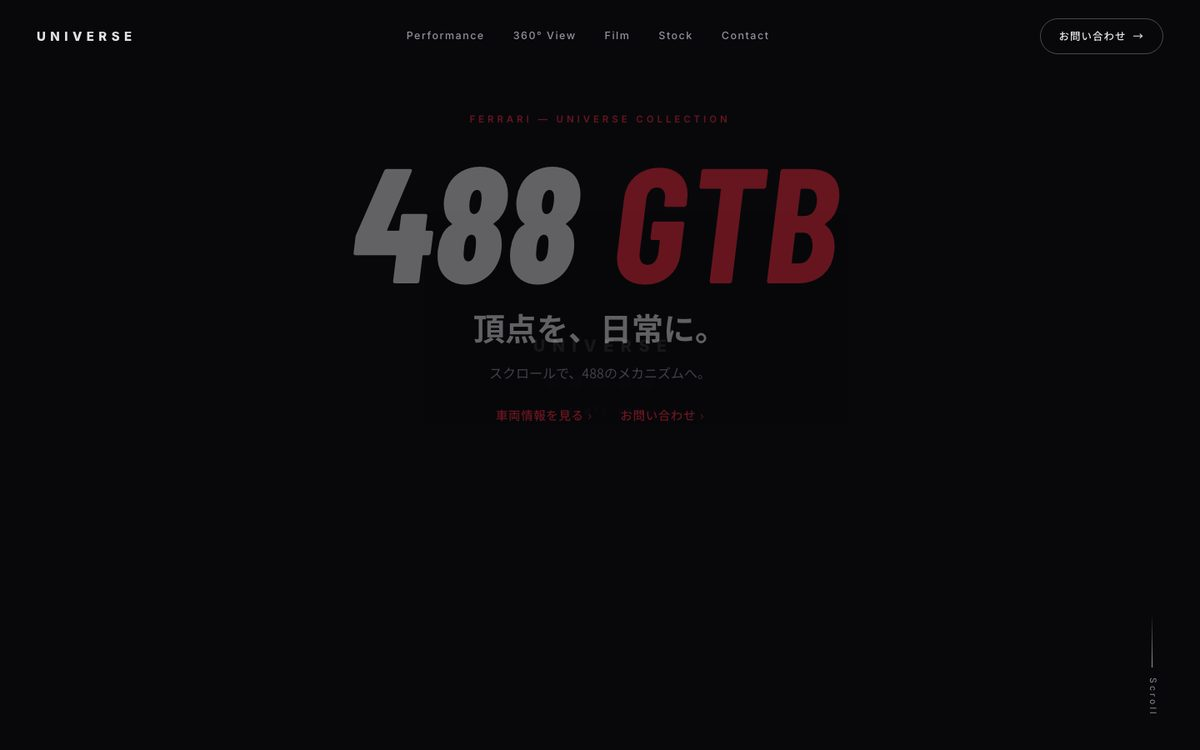
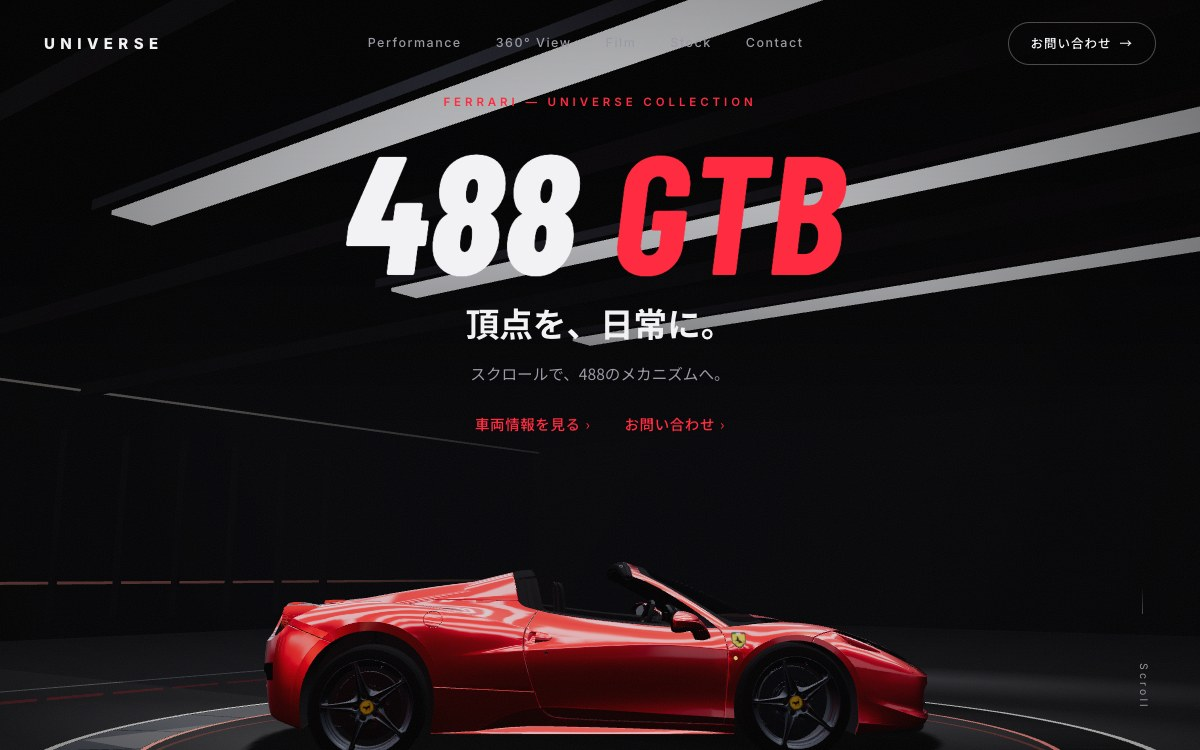
feat: 実績カードの FERRARI サムネを車が写るヒーローに差し替え、オンライン名刺を KOMOREBI（カフェ）に戻す
- img/works/ferrari.jpg: スクロール後に3D車体が描画された状態のヒーローを撮り直し
- company/service/web: 4枚目をオンライン名刺 → KOMOREBI COFFEE & DINING に変更
- musuhi_meishi.jpg を削除、komorebi.jpg を復帰

diff --git a/company/service/web/index.html b/company/service/web/index.html
@@ -92,7 +92,7 @@
       <ul class="works-grid">
         <li class="work-card">
           <a class="work-link" href="https://ferrari-488-site.vercel.app/" target="_blank" rel="noopener">
-            <figure class="work-shot"><img src="../../img/works/ferrari.jpg" alt="FERRARI 488 GTB 販売ページのトップ。黒い背景に大きな車名" width="1200" height="750" loading="lazy"></figure>
+            <figure class="work-shot"><img src="../../img/works/ferrari.jpg" alt="FERRARI 488 GTB 販売ページのトップ。黒い背景に大きな車名と赤い車体" width="1200" height="750" loading="lazy"></figure>
             <p class="work-title">FERRARI 488 GTB ｜ UNIVERSE</p>
             <p class="work-meta" lang="en">product landing page</p>
             <p class="work-desc">中古車1台の販売ページ。スクロールで走行性能・360°ビュー・動画・在庫へ。黒地に赤の一点で見せる作り。</p>
@@ -118,11 +118,11 @@
           </a>
         </li>
         <li class="work-card">
-          <a class="work-link" href="https://nakajimaakimasa-cpu.github.io/musuhi-lab/" target="_blank" rel="noopener">
-            <figure class="work-shot"><img src="../../img/works/musuhi_meishi.jpg" alt="浅見文晶のオンライン名刺ページ" width="1200" height="750" loading="lazy"></figure>
-            <p class="work-title">オンライン名刺</p>
-            <p class="work-meta" lang="en">one-page profile</p>
-            <p class="work-desc">名刺のQRから開く1ページ。プロフィール・できること・連絡先をスマホ幅で。</p>
+          <a class="work-link" href="https://cerulean-hummingbird-59263c.netlify.app/" target="_blank" rel="noopener">
+            <figure class="work-shot"><img src="../../img/works/komorebi.jpg" alt="KOMOREBI COFFEE &amp; DINING のトップ。店内写真に縦書きのコピー" width="1200" height="750" loading="lazy"></figure>
+            <p class="work-title">KOMOREBI COFFEE &amp; DINING</p>
+            <p class="work-meta" lang="en">cafe &amp; dining website</p>
+            <p class="work-desc">三軒茶屋のカフェ＆ダイニング。メニュー・パーティー・店内の様子・採用・アクセスまで、飲食店に必要な要素を一式。</p>
             <span class="text-link">サイトを見る<span aria-hidden="true">→</span></span>
           </a>
         </li>
